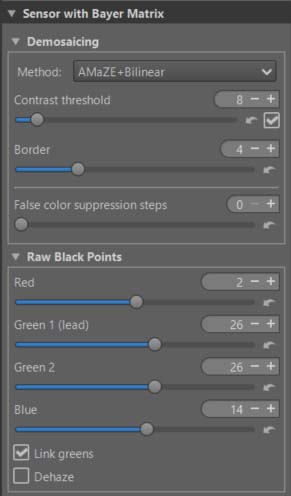
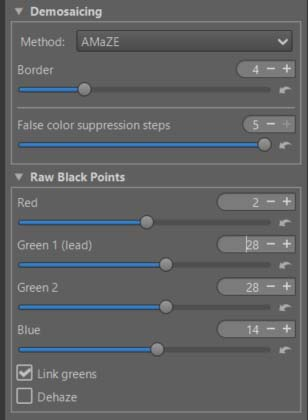
Change tutorial Pagodas

Changed region(s): [[0.0, 0.0, 1.0, 1.0]]

diff --git a/content/Tutorials/index.md b/content/Tutorials/index.md
@@ -1760,12 +1760,24 @@ This tutorial will use two processing hypotheses.
 * Capture Sharpening (Raw Tab) - Enabled - You’ll notice that “Contrast threshold” isn’t set to zero. You can leave the default settings. The image doesn’t appear to be very noisy, so don’t change anything for the two sliders (Presharpening denoise, Postsharpening denoise);
 * White Balance > Automatic & Refinement > Temperature correlation: The illuminant a priori, is of the Daylight type; this automatic setting should be the most suitable.
 
-##### Raw Black Points
+##### Raw Settings
+
+##### Demoisaicing and Raw Black Points
+
+**Demoisaicing**
+
++ Try different methods. After my tests, I found the best results for mastering artifacts in the clouds.
++ AMaZE 
++ False color suppression steps = 5.
+
+**Dehaze**
 
 The 'Dehaze' system designed by Ingo Weirich (thanks to him) suggests in some cases, this can improve the image by optimizing the black points. This can be accompanied by either a reduction in haze or a slight improvement in the overall image contrast.
 
 + Try the "Dehaze" checkbox; you'll see the sliders move to the right, the histogram expands, especially to the left (the shadow areas), and the image is brighter and more colorful: Red:+2, Green 1:+26, Green 2:+26, Blue:+14.
-
++ Disabled Dehaze Checkbox 
++ Increase slightly the 2 Green (Grren 1 & Grren 2) to 28, to reduce artifacts
++ Be **very careful**, these settings are very sensitive and can contribute to making the images unusable.
 
 [Raw Black Points](/raw_black_points/)
 
@@ -1787,9 +1799,9 @@ Below, you can see the influence of Raw Black Points on the image at the end of 
 <figcaption>Histogram with Raw Black points</figcaption>
 </figure>
 
-+ Be **very careful**, these settings are very sensitive and can contribute to making the images unusable.
 
-#### Gamut Compression
+
+##### Gamut Compression
 <figure>
 <img src="gam-comp-8.jpg" title="gam-comp-8.jpg" width="300" />
 <figcaption>Gamut Compression</figcaption>

diff --git a/content/local_adjustments/index.md b/content/local_adjustments/index.md
@@ -716,7 +716,7 @@ This algorithm combines two decompositions of the same image and recombines them
 Raw file (Creative Common Attribution-share Alike 4.0):
 [14](https://drive.google.com/file/d/1GdqejdnbW1kJFNY6y9sdQDlF2rCEGMCu/view?usp=sharing)
 
-pp3 file: [Pagodas pp3](dsc1629-0.pp3 "dsc1629-0.pp3")
+pp3 file: [Pagodas 0 pp3](dsc1629-0.pp3 "dsc1629-0.pp3")
 
 [See Tutorial Game Changer - Pagodas](/tutorials/#pagodas---how-to-process-local-contrast---clarity)
 